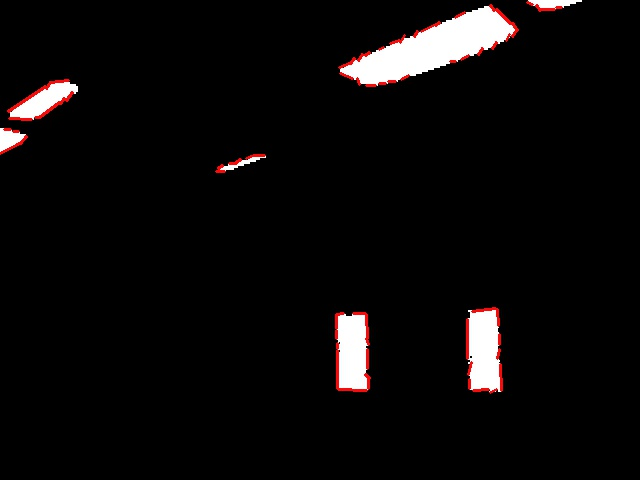
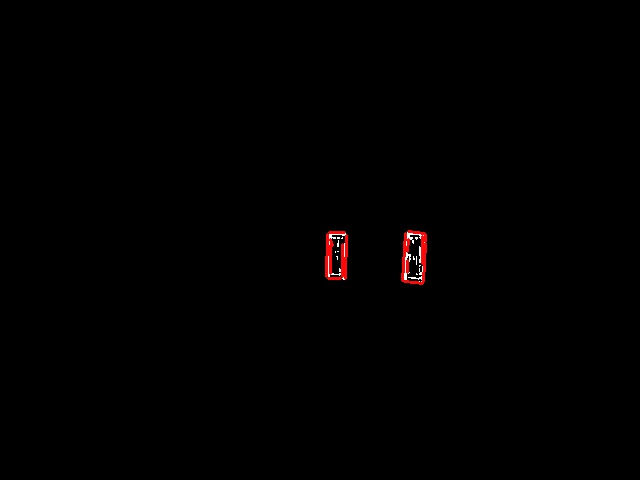
Improvements to image scoring and calibration; constants implemented for setting camera properties.

diff --git a/src/com/thecharge/HelloOCV.java b/src/com/thecharge/HelloOCV.java
@@ -11,7 +11,10 @@ import java.util.Random;
 import org.opencv.core.Core;
 import org.opencv.core.CvType;
 import org.opencv.core.Mat;
+import org.opencv.core.Size;
 import org.opencv.core.Scalar;
+//import org.opencv.highgui.Highgui;        
+//import org.opencv.highgui.VideoCapture;        
 import org.opencv.imgcodecs.Imgcodecs;
 import org.opencv.imgproc.Imgproc;
 import org.opencv.video.Video;
@@ -25,10 +28,10 @@ import edu.wpi.first.wpilibj.networktables.NetworkTable;
 
 public class HelloOCV {
 	private static final boolean TROUBLESHOOTING_MODE = true;
-	private static final boolean CALIBRATION_MODE = false;
+	private static final boolean CALIBRATION_MODE = true;
 	private static final int MAX_CALIBR_PASS = 999;
-	private static final boolean USE_VIDEO = true;
-	private static final boolean JPGS_TO_C = true;
+	private static final boolean USE_VIDEO = false;
+	private static final boolean JPGS_TO_C = false;
 	private static boolean userStop = false;
 	private static final double INCH_GAP_BETW = 6.25; // Distance between reflective targets
 	private static final double INCH_TGT_WIDE = 2; // Width of the reflective target
@@ -60,16 +63,23 @@ public class HelloOCV {
 	private static double tanHlfAngleH = Math.tan(Math.toRadians(HALF_FIELD_ANGLE_H));
 	private static double tanHlfAngleV = Math.tan(Math.toRadians(HALF_FIELD_ANGLE_V));
 	private static double dist2Target = 0;	// Calculated distance to the target in inches
-	private static final double INITIAL_LO_HUE = 73;	//40,65,68,32, 73;		//74;
-	private static final double INITIAL_HI_HUE = 171;	//142,120,117, 103;	//96;	// 93.99317406143345;
+	private static final double INITIAL_LO_HUE = 65;	//40,65,68,32, 73;		//74;
+	private static final double INITIAL_HI_HUE = 92;	//142,120,117, 103;	//96;	// 93.99317406143345;
 	private static final double INITIAL_LO_SATURATION = 3;	//156,211, 14;	//40;	//45.86330935251798;
-	private static final double INITIAL_HI_SATURATION = 61;	//255, 255;	//140;	//153;	// 128.80546075085323;
-	private static final double INITIAL_LO_LUMIN = 96;	//89,99,66, 135;	//80.26079136690647;
-	private static final double INITIAL_HI_LUMIN = 181;	//133,255,166, 235;	//163.61774744027304;
+	private static final double INITIAL_HI_SATURATION = 250;	//255, 255;	//140;	//153;	// 128.80546075085323;
+	private static final double INITIAL_LO_LUMIN = 46;	//89,99,66, 135;	//80.26079136690647;
+	private static final double INITIAL_HI_LUMIN = 180;	//133,255,166, 235;	//163.61774744027304;
 	//LTGym8ft => 81 / 114 / 7 / 140 / 85 / 254
 	//BreakRoom => 71 / 110 / 17 / 253 / 12 / 255
 	//LTGym6f70d.jpg => 83 / 102 / 57 / 255 / 71 / 185
 	//BreakRoom0221 =>  73 / 171 / 3 / 61 / 96 / 181
+	private static final double INITIAL_WC_BRIGHTNESS = 128;
+	private static final double INITIAL_WC_CONTRAST = 32;
+	private static final double INITIAL_WC_EXPOSURE = -2;
+	private static final double INITIAL_WC_GAIN = 0;
+	private static final double INITIAL_WC_SATURATION = 32;
+	private static final double INITIAL_WC_WHTBALBLU = 2800;
+	private static final double INITIAL_WC_WHTBALRED = -1;
 	private static boolean lastTestInCalbrPh = false;
 	private static double loHue = 0;	// 81 from optimization;
 	private static double hiHue = 0;	// 93.99317406143345;
@@ -133,7 +143,7 @@ public class HelloOCV {
 	private static String jpgFile = "";
 	private static double imageQuality = 0;
 	private static double optimumQuality = 0;
-	private static double lastScore = 0;
+	private static double percHLFPts = 0;		// Percent of the horizontal line fit points that were found
 	private static long executionCount = 0;
 	private static int poorImageCount = 0;
 	private static Mat hslTO;
@@ -142,12 +152,14 @@ public class HelloOCV {
 	public static void main(String[] args) throws Exception {
 		Double dist2TargetTemp = 0.0;
 		System.loadLibrary(Core.NATIVE_LIBRARY_NAME);
+		//System.loadLibrary("opencv_ffmpeg300_64");
 		Mat image = new Mat();
 		
 		VideoCapture camera = null;
 		
 		if (USE_VIDEO) {
-			camera = new VideoCapture(0);
+			camera = new VideoCapture(1);
+			//camera = new VideoCapture("GymCartApprch.wmv");
 	    	if(!camera.isOpened()){
 				System.out.println("The camera didn't open.");
 				throw new Exception("Can't open the camera.");
@@ -164,30 +176,28 @@ public class HelloOCV {
 	    	
 	    	
 	    	camSetting = camera.get(Videoio.CAP_PROP_BRIGHTNESS);	
-	    	camera.set(Videoio.CAP_PROP_BRIGHTNESS, 18);	// 66, 142, 32, 73 // 66  //10 - CV_CAP_PROP_BRIGHTNESS Brightness of the image (only for cameras).
+	    	camera.set(Videoio.CAP_PROP_BRIGHTNESS, INITIAL_WC_BRIGHTNESS);	// 18, 66, 142, 32, 73 // 66  //10 - CV_CAP_PROP_BRIGHTNESS Brightness of the image (only for cameras).
 	    	
 	    	camSetting = camera.get(Videoio.CAP_PROP_CONTRAST);	
-	    	camera.set(Videoio.CAP_PROP_CONTRAST, 90);		// 32, 66, 128, 42, 32  //11 - CV_CAP_PROP_CONTRAST Contrast of the image (only for cameras).
-	    	//camera.set(Videoio.CAP_PROP_CONTRAST, 128);		// 32, 66, 128, 42, 32  //11 - CV_CAP_PROP_CONTRAST Contrast of the image (only for cameras).
+	    	camera.set(Videoio.CAP_PROP_CONTRAST, INITIAL_WC_CONTRAST);		// 90, 128, 32, 66, 128, 42, 32  //11 - CV_CAP_PROP_CONTRAST Contrast of the image (only for cameras).
 	    	
 	    	camSetting = camera.get(Videoio.CAP_PROP_EXPOSURE);	
-	    	camera.set(Videoio.CAP_PROP_EXPOSURE, -3); 	// -1, -2 -3 -2, -1  // 15 - CV_CAP_PROP_EXPOSURE Exposure (only for cameras).
+	    	camera.set(Videoio.CAP_PROP_EXPOSURE, INITIAL_WC_EXPOSURE); 	// -3, -1, -2 -3 -2, -1  // 15 - CV_CAP_PROP_EXPOSURE Exposure (only for cameras).
 	    	
 	    	camSetting = camera.get(Videoio.CAP_PROP_GAIN);	
-	    	camera.set(Videoio.CAP_PROP_GAIN, 16);			// 44, 9, 40, 9, 44  // 14 - CV_CAP_PROP_GAIN Gain of the image (only for cameras).
-	    	//camera.set(Videoio.CAP_PROP_GAIN, 8);			// 44, 9, 40, 9, 44  // 14 - CV_CAP_PROP_GAIN Gain of the image (only for cameras).
+	    	camera.set(Videoio.CAP_PROP_GAIN, INITIAL_WC_GAIN);			// 16, 8, 44, 9, 40, 9, 44  // 14 - CV_CAP_PROP_GAIN Gain of the image (only for cameras).
 	    	
 	    	camSetting = camera.get(Videoio.CAP_PROP_SATURATION);	
-	    	camera.set(Videoio.CAP_PROP_SATURATION, 255);			// 255, 209, 186, 35, 255 // 12 - CV_CAP_PROP_SATURATION Saturation of the image (only for cameras).
+	    	camera.set(Videoio.CAP_PROP_SATURATION, INITIAL_WC_SATURATION);			// 255, 209, 186, 35, 255 // 12 - CV_CAP_PROP_SATURATION Saturation of the image (only for cameras).
 	    	
 	    	camSetting = camera.get(Videoio.CAP_PROP_WHITE_BALANCE_BLUE_U);	
-	    	camera.set(Videoio.CAP_PROP_WHITE_BALANCE_BLUE_U, 6500);		//6500, 2800, 6500
+	    	camera.set(Videoio.CAP_PROP_WHITE_BALANCE_BLUE_U, INITIAL_WC_WHTBALBLU);		//6500, 2800, 6500
 	    	
 	    	camSetting = camera.get(Videoio.CAP_PROP_WHITE_BALANCE_RED_V);	
-	    	camera.set(Videoio.CAP_PROP_WHITE_BALANCE_RED_V, -1);		//6500, -1, 6500
+	    	camera.set(Videoio.CAP_PROP_WHITE_BALANCE_RED_V, INITIAL_WC_WHTBALRED);		//-1, 6500, -1, 6500
 	    	
 	    	camSetting = camera.get(Videoio.CAP_PROP_HUE);	
-	    	camera.set(Videoio.CAP_PROP_HUE, 3.6305E7);	// 4.04987E7, 4.3513e7, 3.84e7, //13 - CV_CAP_PROP_HUE Hue of the image (only for cameras).
+	    	camera.set(Videoio.CAP_PROP_HUE, 4.3316184E7);	// 3.6305E7, 4.04987E7, 4.3513e7, 3.84e7, //13 - CV_CAP_PROP_HUE Hue of the image (only for cameras).
 	    	
 		}
 		
@@ -238,10 +248,10 @@ public class HelloOCV {
 			executionCount ++;
 			//System.currentTimeMillis()
 			
-		//} while ((calibrPass < MAX_CALIBR_PASS) || (USE_VIDEO));
+		} while ((calibrPass < MAX_CALIBR_PASS) || (USE_VIDEO));
 		//} while (executionCount < 1);
 		//} while ((dist2Target == 0) || (Double.toString(dist2Target).equals("NaN")));
-		} while ((dist2TargetTemp == 0) || (dist2TargetTemp.isNaN()));
+		//} while ((dist2TargetTemp == 0) || (dist2TargetTemp.isNaN()));
 		
 		if (USE_VIDEO)
 			camera.release();
@@ -467,6 +477,7 @@ public class HelloOCV {
 		bottomIntercept = 0;
 		yAtXFitBL = 0;
 		yAtXFitBR = 0;
+		percHLFPts = 0;
 	}
 	
 	private static void printLineFit() throws IOException {
@@ -503,7 +514,8 @@ public class HelloOCV {
 		//jpgFile = new String("LTGym8ft.jpg");
 		//jpgFile = new String("LTGym18ft.jpg"); 
 		//jpgFile = new String("BreakRoom0221.jpg");
-		jpgFile = new String("Image_for_PostAnalysis.jpg");
+		jpgFile = new String("TestImage1.jpg");
+		//jpgFile = new String("Image_for_PostAnalysis.jpg");
 
 		// By default, we clear this variable and only set it if applicable
 		lastTestInCalbrPh = false;
@@ -603,6 +615,7 @@ public class HelloOCV {
 				}
 			}
 		} else {
+			// Since we're not in calibration mode, simply set our values as specified initial sets
 			loHue = INITIAL_LO_HUE;
 			hiHue = INITIAL_HI_HUE;
 			loSat = INITIAL_LO_SATURATION;
@@ -643,14 +656,19 @@ public class HelloOCV {
 		imageQuality -= (stdErrT / 3);
 		imageQuality -= (stdErrB / 4);
 		
-		if (lTgtAccrW > 1) imageQuality -= (lTgtAccrW - 1);
-		if (rTgtAccrW > 1) imageQuality -= (rTgtAccrW - 1);
+		imageQuality -= 0.2 * (lTgtAccrW - 1) * (lTgtAccrW - 1);
+		imageQuality -= 0.2 * (rTgtAccrW - 1) * (rTgtAccrW - 1);
 		
 		if (dist2Target > 1) {
 			imageQuality += .1;
 		} else {
 			imageQuality = 0.1 * imageQuality;
 		}
+		
+		// Reduce the rating according to the number of points missing from the linefit data
+		imageQuality = imageQuality * percHLFPts;
+		
+		// Finally, ensure that we return a rating between 0 and 1
 		if (imageQuality < 0) {
 			imageQuality = 0;
 		}
@@ -674,7 +692,7 @@ public class HelloOCV {
 								
 				// Choose an efficient means to repetitively append an analysis file (create new here)
 				try(PrintWriter out = new PrintWriter(new BufferedWriter(new FileWriter("calibr_data.txt", false)))) {
-				    out.println("FileImage,loHue,hiHue,loSat,hiSat,loLum,hiLum,LineCount,VLnGrps,LnFitStErrB,LnFitStErrT,LTAccur,RTAccur,Dist,AngleT,AngleR,Score");
+				    out.println("FileImage,loHue,hiHue,loSat,hiSat,loLum,hiLum,LineCount,VLnGrps,LnFitStErrB,LnFitStErrT,LTAccur,RTAccur,Dist,AngleT,AngleR,%LFPts,Score");
 				}catch (IOException e) {
 				    System.err.println(e);
 				}			
@@ -682,6 +700,7 @@ public class HelloOCV {
 				
 			} else if (calibrPhase >= 99) {
 
+				// Signal the end
 				calibrPass = MAX_CALIBR_PASS;
 				
 				// Choose an efficient means to repetitively append an analysis file (append here)
@@ -703,6 +722,7 @@ public class HelloOCV {
 					LineOut += "," + Double.toString(dist2Target);
 					LineOut += "," + Double.toString(angOfIncT);
 					LineOut += "," + Double.toString(angOfIncR);
+					LineOut += "," + Double.toString(percHLFPts);
 					LineOut += "," + Double.toString(calibrScore);
 					out.println(LineOut);
 				}catch (IOException e) {
@@ -711,6 +731,7 @@ public class HelloOCV {
 				
 			} else {
 
+				// Being in the middle of calibration, evaluate the most recent analysis
 				if (imageQuality > optimumQuality) {
 					optimumQuality = imageQuality;
 					optLoHue = loHue;
@@ -740,12 +761,13 @@ public class HelloOCV {
 					LineOut += "," + Integer.toString(ocvLineCount);
 					LineOut += "," + Integer.toString(vLineSet + 1);
 					LineOut += "," + Double.toString(stdErrB);
-					LineOut += "," + Double.toString(stdErrT);	//lTgtAccrW
+					LineOut += "," + Double.toString(stdErrT);
 					LineOut += "," + Double.toString(lTgtAccrW);
 					LineOut += "," + Double.toString(rTgtAccrW);
 					LineOut += "," + Double.toString(dist2Target);
 					LineOut += "," + Double.toString(angOfIncT);
 					LineOut += "," + Double.toString(angOfIncR);
+					LineOut += "," + Double.toString(percHLFPts);
 					LineOut += "," + Double.toString(calibrScore);
 					out.println(LineOut);
 				}catch (IOException e) {
@@ -756,28 +778,21 @@ public class HelloOCV {
 			}
 			
 			// As a last step in the calibration pass, determine when we go to the next calibration phase
-			if (calibrPass == 1) {
-				lastScore = imageQuality;
-			} else {
-				if (imageQuality < (0.5 * optimumQuality)) {
-					calibrPhase ++;
-					optimumQuality = 0;
+			if (imageQuality < (0.5 * optimumQuality)) {
+				// Since we reset to the optimum settings at each phase, don't bother letting this fall off too far
+				calibrPhase ++;
+				//optimumQuality = 0;
+				
+				// Restore the optimum values
+				loHue = optLoHue;
+				hiHue = optHiHue;
+				loSat = optLoSat;
+				hiSat = optHiSat;
+				loLum = optLoLum;
+				hiLum = optHiLum;
 					
-					// Restore the optimum values
-					loHue = optLoHue;
-					hiHue = optHiHue;
-					loSat = optLoSat;
-					hiSat = optHiSat;
-					loLum = optLoLum;
-					hiLum = optHiLum;
-					
-				} else {
-					lastScore = imageQuality;
-				}
-			}
-			
-			// If we've just finished testing the last value for the current phase, move to the next
-			if (lastTestInCalbrPh) {
+			} else if (lastTestInCalbrPh) {
+				// If we've just finished testing the last value for the current phase, move to the next
 				calibrPhase++;
 				
 				// Restore the optimum values
@@ -787,7 +802,6 @@ public class HelloOCV {
 				hiSat = optHiSat;
 				loLum = optLoLum;
 				hiLum = optHiLum;
-				
 			}
 			
 			if (calibrPass < 100) calibrPass ++;
@@ -877,6 +891,9 @@ public class HelloOCV {
 				sumy += yAtYfind[zLpCtr1];
 			}
 		}
+		
+		// While this isn't yet a percent, we start by totaling the points found
+		percHLFPts = ptCount;
 		
 		double xbar = sumx / ptCount;
 		double ybar = sumy / ptCount;
@@ -996,6 +1013,9 @@ public class HelloOCV {
 				sumy += yAtYfind[zLpCtr1];
 			}
 		}
+		
+		percHLFPts += ptCount;
+		percHLFPts = percHLFPts / 24;		// We're looking for a total of 24 points to linefit top and bottom
 		
 		xbar = sumx / ptCount;
 		ybar = sumy / ptCount;
@@ -1495,6 +1515,18 @@ public class HelloOCV {
 			tgt1RightXPtr = vertSel[1];
 			tgt2LeftXPtr = vertSel[2];
 			tgt2RightXPtr = vertSel[3];
+
+			// Now verify that we have acceptable spacing to presume these to be our targets
+			rectRatio = (nominalVerticalLineX[tgt2LeftXPtr] - nominalVerticalLineX[tgt1RightXPtr]);
+			rectRatio = rectRatio / (nominalVerticalLineX[tgt1RightXPtr] - nominalVerticalLineX[tgt1LeftXPtr]);
+			lTgtAccrW = rectRatio / refRatio;
+			if (TROUBLESHOOTING_MODE) System.out.println("The left target accuracy is 1 : " + Double.toString(lTgtAccrW));
+			
+			rectRatio = (nominalVerticalLineX[tgt2LeftXPtr] - nominalVerticalLineX[tgt1RightXPtr]);
+			rectRatio = rectRatio / (nominalVerticalLineX[tgt2RightXPtr] - nominalVerticalLineX[tgt2LeftXPtr]);
+			rTgtAccrW = rectRatio / refRatio;
+			if (TROUBLESHOOTING_MODE) System.out.println("The right target accuracy is 1 : " + Double.toString(rTgtAccrW));
+			
 		}
 		if (TROUBLESHOOTING_MODE) System.out.println();
 		
@@ -1919,6 +1951,16 @@ public class HelloOCV {
 					if (TROUBLESHOOTING_MODE) System.out.println("Its position is roughly " + Double.toString(nominalVerticalLineX[vLineSet]));
 					
 				}
+			} else if (x == (ocvLineCount - 1)) {
+				// This line doesn't contribute, but we need to record the results of the last line group
+				totalizedVerticalLen[vLineSet] = cumulLen;
+				
+				// Capture the nominal x coordinate
+				nominalVerticalLineX[vLineSet] = (lastAdjVerticalline + firstAdjVerticalline) / 2;
+				
+				if (TROUBLESHOOTING_MODE) System.out.println("The last line is of length " + Double.toString(totalizedVerticalLen[vLineSet]));
+				if (TROUBLESHOOTING_MODE) System.out.println("Its position is roughly " + Double.toString(nominalVerticalLineX[vLineSet]));
+				
 			}
 			// Note:  In this loop, nothing happens for lines that aren't vertical
 		}
